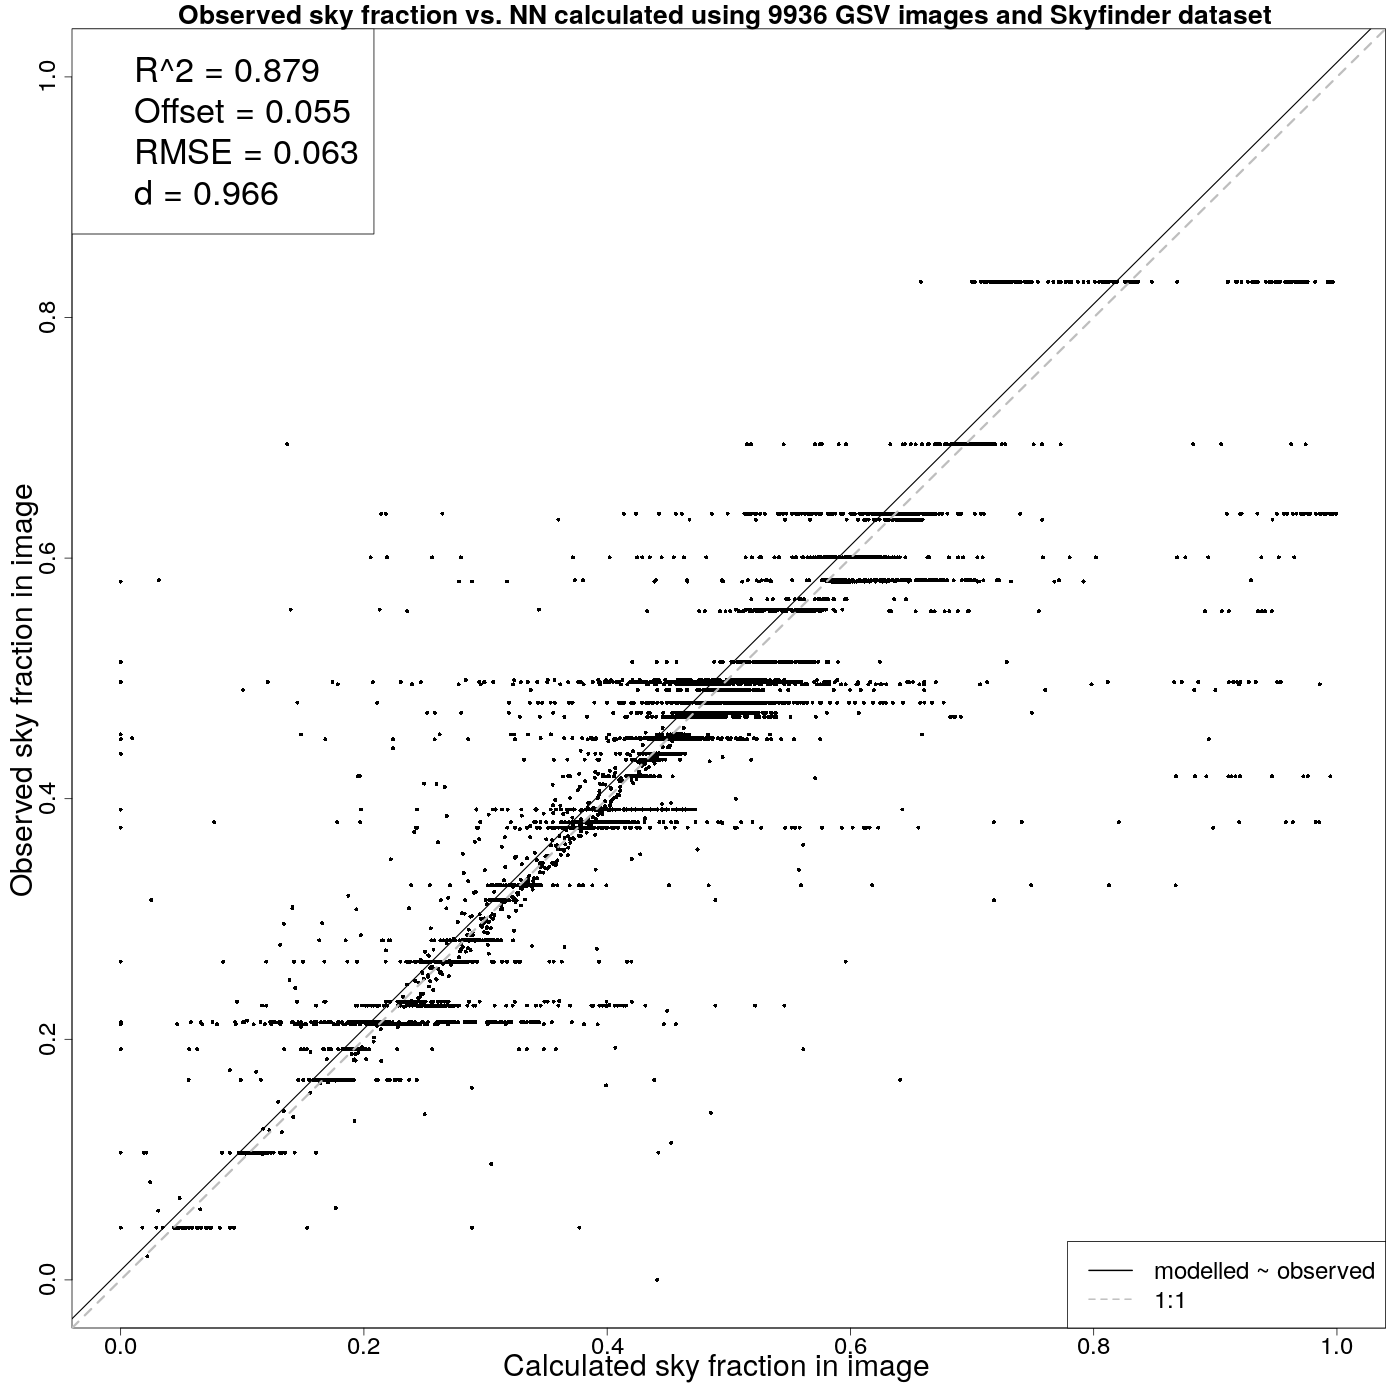
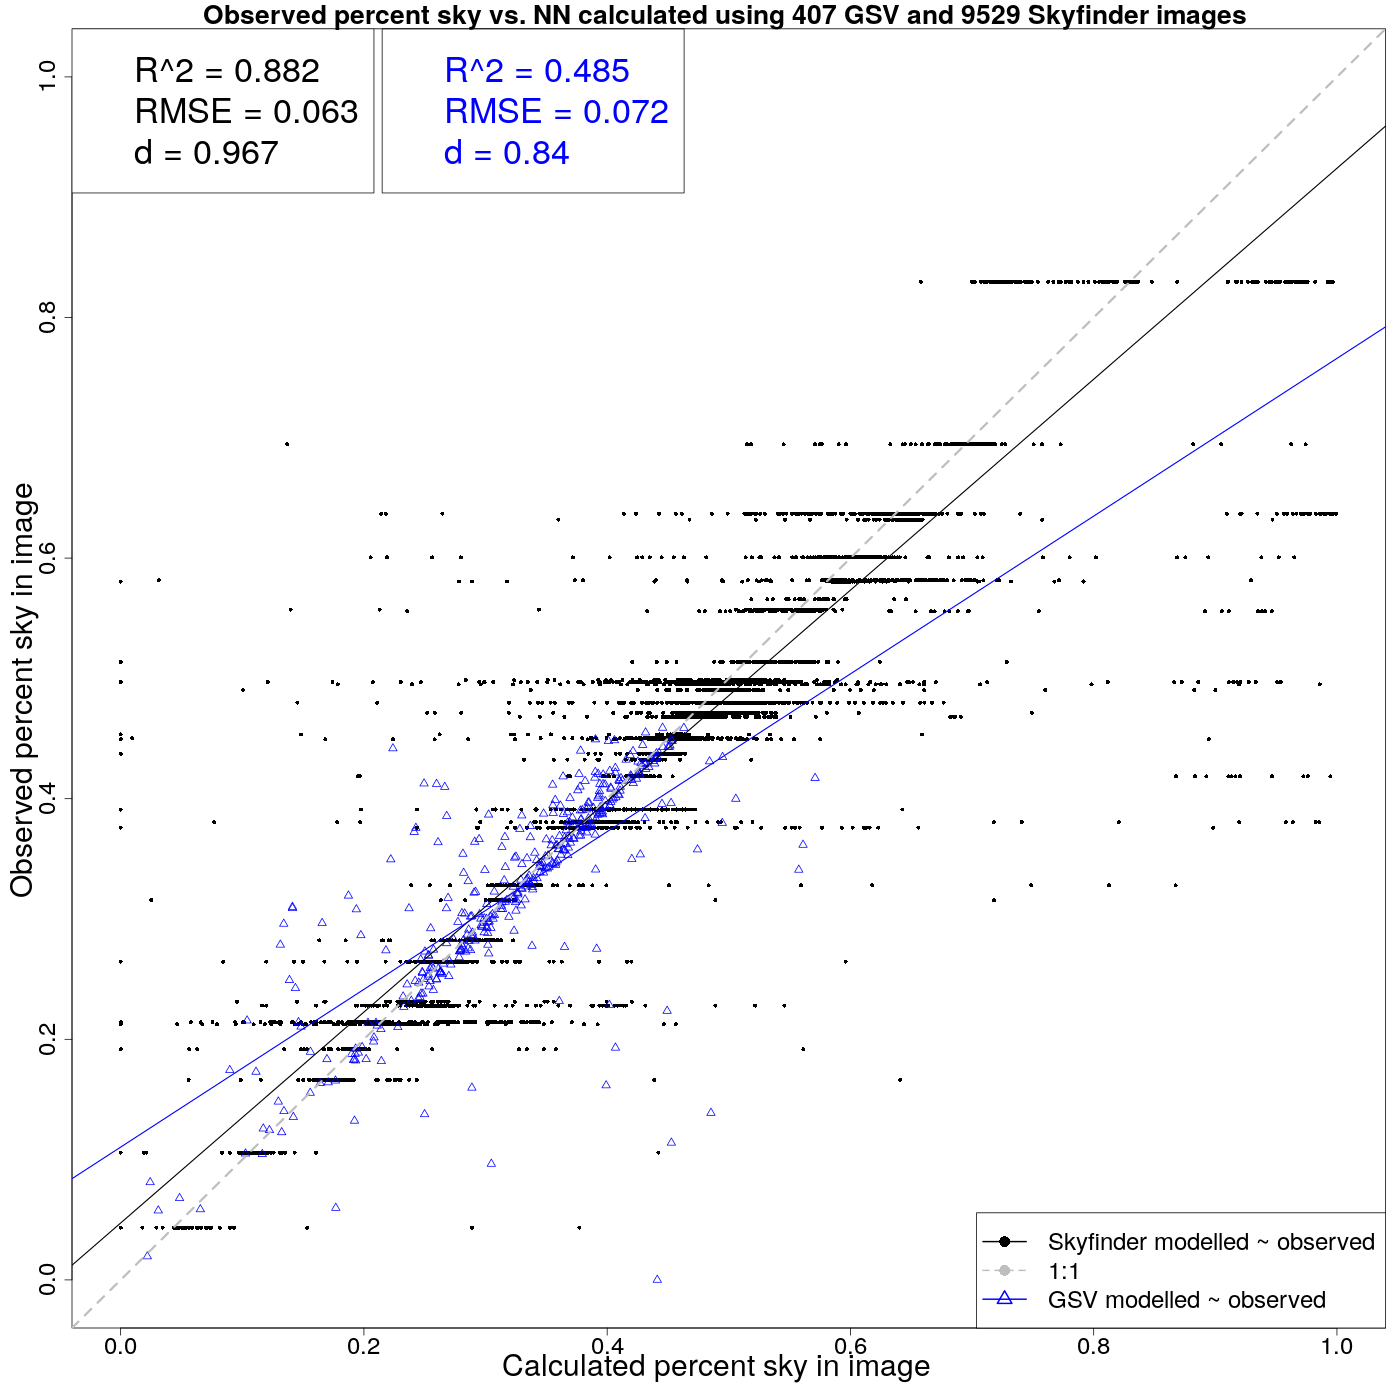
Updating some graphs

diff --git a/UrbanClimateICUC10-SVF.tex b/UrbanClimateICUC10-SVF.tex
@@ -103,7 +103,7 @@
 %% use optional labels to link authors explicitly to addresses:
 
 
-\author[melb]{Kerry~A.~Nice\corref{cor1}}
+\author[melb,monash]{Kerry~A.~Nice\corref{cor1}}
 \ead{kerry.nice@unimelb.edu.au}
 \author[melb]{Jasper S. Wijnands}
 \author[asu]{Ariane Middel}
@@ -120,7 +120,7 @@
 \address[cis]{School of Computing and Information Systems, University of Melbourne, Victoria 3010, Australia}
 \address[eng]{Melbourne School of Engineering; and Melbourne School of Population and Global Health, University of Melbourne, Victoria, Australia.}
 \address[sunshine]{Centre for Human Factors and Sociotechnical Systems, University of the Sunshine Coast, Australia.}
-%\address[monash]{School of Earth, Atmosphere and Environment, Monash University, Clayton, VIC 3800, Australia}
+\address[monash]{School of Earth, Atmosphere and Environment, Monash University, Clayton, VIC 3800, Australia}
 %\address[az1]{School of Geographical Sciences and Urban Planning, Arizona State University, Tempe, Arizona, USA}
 %\address[az2]{Urban Climate Research Center, Arizona State University, Tempe, Arizona, USA}
 %\address[crc]{Cooperative Research Centre for Water Sensitive Cities, Melbourne, Australia}
@@ -213,12 +213,12 @@ Sobel/flood-fill  & \cite{Middel2018}'s Sobel operator/flood-fill algorithm used
 Overall, 38,521 images of outdoor scenes were used. 38,115 images from the Skyfinder dataset were split into two datasets, 28,586 for neural network training and 9529 for validation. An additional 406 images were used from GSV for technique evaluations.
 
 \subsubsection{Skyfinder data}\label{sec:finderdata}
-This dataset was built from 90,000 long-term timelapse images from 53 outdoor webcams over a variety of lighting and weather conditions. Images are of a wide range of sizes and aspect ratios, including 640x489, 857x665, 960x600, 1280x720, and 1280x960. For each location, a binary sky mask was created for validation purposes. All of these images are available from the Skyfinder website \citep{Mihail2015}.
+This dataset was built from 90,000 long-term timelapse images from 53 outdoor webcams over a variety of lighting and weather conditions. Images are of a wide range of sizes and aspect ratios, including 640$\times$489, 857$\times$665, 960$\times$600, 1280$\times$720, and 1280$\times$960. For each location, a binary sky mask was created for validation purposes. All of these images are available from the Skyfinder website \citep{Mihail2015}.
 
 In this study, we selected 38,115 images from 40 locations. Night-time and images with heavy fog were removed as these are conditions unlikely to be encountered in imagery used to calculate sky view factor (i.e. Google Street View).
 
 \subsubsection{GSV data}\label{sec:gsvdata}
-Panoramas for 406 locations in a variety of cities (Adelaide, Brisbane, Paris, Sydney, Tokyo, Perth, and Melbourne) were retrieved using the Google Maps API \citep{GoogleMaps2017b}. Images were retrieved as six 640x640 tiles (one each for up, down, left, right, front, and back directions). The six images were stitched together into a 1280x960 cubic image using Java 8 \citep{Oracle2018} and OpenCV\citep {Bradski2000}. Validation images were created by hand marking sky regions in each image using the GNU Image Manipulation Program \citep{GIMP2019}. Figure \ref{fig:origmarked} shows an example of an GSV panorama image and a hand-marked validation image.
+Panoramas for 406 locations in a variety of cities (Adelaide, Brisbane, Paris, Sydney, Tokyo, Perth, and Melbourne) were retrieved using the Google Maps API \citep{GoogleMaps2017b}. Images were retrieved as six 640$\times$640 tiles (one each for up, down, left, right, front, and back directions). The six images were stitched together into a 1280$\times$960 cubic image using Java 8 \citep{Oracle2018} and OpenCV\citep {Bradski2000}. Validation images were created by hand marking sky regions in each image using the GNU Image Manipulation Program \citep{GIMP2019}. Figure \ref{fig:origmarked} shows an example of an GSV panorama image and a hand-marked validation image.
 
 \begin{figure}
 \centering    
@@ -364,7 +364,7 @@ K-mean\_14  & 14 & 0.4& 0.75& 0.3 & 0.95 & 0.65 & 0.2 \\
 
 \subsubsection{\cite{Middel2018} Sobel operator/flood-fill algorithm}\label{sec:floodfill}
 
-\cite{Middel2018} developed a process based on a Sobel filter \citep{Sobel1968} and flood-fill algorithm \citep{Laungrungthip2008,Middel2017}. This method was designed to calculate sky view factor from Google Street View panoramas that had the bottom half cropped off and converted to a fisheye projection. Note, this algorithm also rescales the imagery to 512x512. All 38,521 images in the combined training and validation dataset were processed with this algorithm (sky pixels marked with white, RGB 255,255,255), compared to validation images, and results saved for a comparison with our process flow results. These results were kept separate from the other 13 techniques and were not included in the NN training process (see Section \ref{sec:nntraining}). Also, in this benchmark comparison, we used this system to process a varied outdoor imagery dataset, not the fisheye imagery (cropped below the horizon) this algorithm was originally designed to process. Results are shown in Figure \ref{fig:sobelflood}.
+\cite{Middel2018} developed a process based on a Sobel filter \citep{Sobel1968} and flood-fill algorithm \citep{Laungrungthip2008,Middel2017}. This method was designed to calculate sky view factor from Google Street View panoramas that had the bottom half cropped off and converted to a fisheye projection. Note, this algorithm also rescales the imagery to 512$\times$512. All 38,521 images in the combined training and validation dataset were processed with this algorithm (sky pixels marked with white, RGB 255,255,255), compared to validation images, and results saved for a comparison with our process flow results. These results were kept separate from the other 13 techniques and were not included in the NN training process (see Section \ref{sec:nntraining}). Also, in this benchmark comparison, we used this system to process a varied outdoor imagery dataset, not the fisheye imagery (cropped below the horizon) this algorithm was originally designed to process. Results are shown in Figure \ref{fig:sobelflood}.
 
 
 
@@ -385,7 +385,7 @@ The Microsoft Cognitive Toolkit (CNTK) \citep{Yu2015,Agarwal2016}, with the the 
 
 \subsubsection{Neural network training}\label{sec:nntraining}    
 
-The Skyfinder dataset of 38,115 images was split into two datasets of 75\% training and 25\% validation. All training and validation images (which consisted of images of a wide variety of sizes and aspect ratios) were rescaled to 300x300. The network was calibrated using supervised learning with the generated dataset to identify one of the 13 sky detection techniques variations that performed with the highest accuracy for each image. Note, none of the GSV imagery was used in the NN training process.
+The Skyfinder dataset of 38,115 images was split into two datasets of 75\% training and 25\% validation. All training and validation images (which consisted of images of a wide variety of sizes and aspect ratios) were rescaled to 300$\times$300. The network was calibrated using supervised learning with the generated dataset to identify one of the 13 sky detection techniques variations that performed with the highest accuracy for each image. Note, none of the GSV imagery was used in the NN training process.
 
 
 
@@ -433,7 +433,7 @@ Sobel/flood-fill&0.134&0.211&0.067&0.312 \\
 \begin{figure}
 \centering
 \textbf{a)}\includegraphics[scale=0.15]{Images/ErrorPlotsCombinedIndivMean_7_6_100.png} 
-% R CMD BATCH scriptCombinedIndiv_Mean_7_6_100.R
+% R CMD BATCH /home/kerryn/git/2018-03-MasterITProject/SkyViewDetection/SkyfinderEvaluationOutput/Plots/scriptCombinedIndiv_Mean_7_6_100.R
 % cp -u ../2018-03-MasterITProject/SkyViewDetection/SkyfinderEvaluationOutput/Plots/ErrorPlotsGSVandSMean_7_6_100.png Images/ErrorPlotsCombinedIndivMean_7_6_100.png
 \textbf{b)}\includegraphics[scale=0.15]{Images/ErrorPlotsCombinedIndivMean_7_8_300.png}
 % R CMD BATCH /home/kerryn/git/2018-03-MasterITProject/SkyViewDetection/SkyfinderEvaluationOutput/Plots/scriptCombinedIndiv_Mean_7_8_300.R
@@ -453,14 +453,15 @@ Figure \ref{fig:errorplots}a presents a theoretical best case. If the NN was 100
 
 \begin{figure}
 \centering
-\textbf{a)}\includegraphics[scale=0.15]{Images/ErrorPlots1Combined.png}
-% R CMD BATCH /home/kerryn/git/2018-03-MasterITProject/SkyViewDetection/SkyfinderEvaluationOutput/Plots/TheoreticalAccuracySkyGsv.R
-% cp -u /home/kerryn/git/2018-03-MasterITProject/SkyViewDetection/SkyfinderEvaluationOutput/Plots/ErrorPlotsTheoSkyAndGsv.png /home/kerryn/git/2019-01-UrbanClimateSVF/Images/ErrorPlots1Combined.png 
-\textbf{b)}\includegraphics[scale=0.15]{Images/ErrorPlotsCNTK.png}
-% R CMD BATCH /home/kerryn/git/2018-03-MasterITProject/SkyViewDetection/SkyfinderEvaluationOutput/Plots/scriptCNTK_13classesSkyfinderOnlyEp249.R
-% cp -u /home/kerryn/git/2018-03-MasterITProject/SkyViewDetection/SkyfinderEvaluationOutput/Plots/ErrorPlotsCNTK13classesSkyfinderOnlyEp249_2.png /home/kerryn/git/2019-01-UrbanClimateSVF/Images/ErrorPlotsCNTK.png 
+\includegraphics[scale=0.15]{Images/ErrorPlots1Combined.png}
+% AnalyzeResults2ReprocessTheory.java
+% R CMD BATCH /home/kerryn/git/2018-03-MasterITProject/SkyViewDetection/SkyfinderEvaluationOutput/Plots/scriptReprocess2Theory.R
+% cp -u /home/kerryn/git/2018-03-MasterITProject/SkyViewDetection/SkyfinderEvaluationOutput/Plots/ErrorPlots2Reprocess2Theory.png /home/kerryn/git/2019-01-UrbanClimateSVF/Images/ErrorPlots1Combined.png 
+
 \caption{\textbf{
-Theoretical best case results if the NN is 100\% accurate for a) Skyfinder and GSV datasets. b) Results of NN picks against the 9636 validation images.}}
+Theoretical best case results if the NN is 100\% accurate for the 9636 validation images. 
+%b) Results of NN picks against the 9636 validation images.
+}}
 \label{fig:errorplotscntk} \label{fig:errorplots}
 \end{figure}
 
@@ -477,7 +478,7 @@ a) Mean\_7\_8\_300, b) Mean\_7\_6\_100, c) K-mean\_6, d) Sobel\_70.}}
 \label{fig:classImages}
 \end{figure}
 
-The neural network was trained for 250 epochs on a Nvidia GeForce GTX 1080 GPU, requiring about 12 hours. The neural network reached peak error rate of 46.2\% in choosing between the 13 classifications. However, as the classification results were more of a continuum, where some techniques did only slightly better than others, a strictly binary choice is not always necessary. Breaking down the accuracy with this in mind, the NN reached 52.6\% accuracy in picking the best method, 18.9\% accurate in picking the second best method, and 10.5\% in picking the third best method (for a total of the three of 82.0\%)
+The neural network was trained for 250 epochs on a Nvidia GeForce GTX 1080 GPU, requiring about 12 hours. The neural network reached peak error rate of 46.3\% in choosing between the 13 classifications. However, as the classification results were more of a continuum, where some techniques did only slightly better than others, a strictly binary choice is not always necessary. Breaking down the accuracy with this in mind, the NN reached 52.6\% accuracy in picking the best method, 18.9\% accurate in picking the second best method, and 10.5\% in picking the third best method (for a total of the three of 82.0\%)
 
 Figure \ref{fig:errorplotscntk}b shows the overall accuracy of the NN chosen pathway process flow against the 9636 validation images, with a RMSE of 0.063 and R$^{2}$ of 0.879. The accuracy of the NN has impacted the overall accuracy of the system (i.e. not reaching the theoretical accuracy of 0.026 or 0.02 RMSE), but the results are still very good. 
 
@@ -524,13 +525,19 @@ In the evaluation of the Sobel/flood-fill algorithm, results from the Skyfinder 
 
 \begin{figure}
 \centering
-\textbf{a)}\includegraphics[scale=0.15]{Images/ErrorPlots2FloodfillAll.png}
+\textbf{a)}\includegraphics[scale=0.15]{Images/ErrorPlotsCNTK.png}
+% AnalyzeCNTKResults.java
+% R CMD BATCH /home/kerryn/git/2018-03-MasterITProject/SkyViewDetection/SkyfinderEvaluationOutput/Plots/scriptCNTK_13classesSkyfinderGSVEp249.R
+% cp -u /home/kerryn/git/2018-03-MasterITProject/SkyViewDetection/SkyfinderEvaluationOutput/Plots/ErrorPlotsCNTK13classesSkyfinderGSVEp249_2.png /home/kerryn/git/2019-01-UrbanClimateSVF/Images/ErrorPlotsCNTK.png 
+\textbf{b)}\includegraphics[scale=0.15]{Images/ErrorPlots2FloodfillAll.png}
 % R CMD BATCH /home/kerryn/git/2018-03-MasterITProject/SkyViewDetection/SkyfinderEvaluationOutput/Plots/FloodfillEvalSkyfinderAndGsv.R
 % cp -u /home/kerryn/git/2018-03-MasterITProject/SkyViewDetection/SkyfinderEvaluationOutput/Plots/FloodfillEvalSkyGsv.png /home/kerryn/git/2019-01-UrbanClimateSVF/Images/ErrorPlots2FloodfillAll.png 
-\textbf{b)}\includegraphics[scale=0.15]{Images/ErrorPlots2FloodfillValidation.png}
+\textbf{c)}\includegraphics[scale=0.15]{Images/ErrorPlots2FloodfillValidation.png}
 % R CMD BATCH /home/kerryn/git/2018-03-MasterITProject/SkyViewDetection/SkyfinderEvaluationOutput/Plots/scriptFloodfillValidationFloodfillValidation.R
 % cp -u /home/kerryn/git/2018-03-MasterITProject/SkyViewDetection/SkyfinderEvaluationOutput/Plots/ErrorPlots2FloodfillValidation_2.png /home/kerryn/git/2019-01-UrbanClimateSVF/Images/ErrorPlots2FloodfillValidation.png 
-\caption{\textbf{Results of Sobel/flood-fill combination against a) combined 38,520 image dataset and b) 9636 validation images.}}
+\caption{\textbf{
+a) Results of NN picks against the 9636 validation images.
+Results of Sobel/flood-fill combination against a) combined 38,520 image dataset and b) 9636 validation images.}}
 \label{fig:errorfloodall}
 \end{figure}
 
@@ -539,14 +546,13 @@ In the evaluation of the Sobel/flood-fill algorithm, results from the Skyfinder 
 
 In comparison to published methods, the adaptive process performs well. Our accuracy of RMSE of 0.063 compares well to the RMSE of 0.205 for the \cite{Middel2018} Sobel/flood-fill algorithm and the best performing \cite{Wang2015a} Sobel variations, Sobel\_70 and Sobel\_80, which achieved an RMSE of 0.134 and 0.07.
 
-
 The results from Section \ref{sec:resultsall} show that no single technique and parameter combination performs sky pixel identification with high accuracy across the dataset used by this project. This dataset contains a wide variety of outdoor scenes with a wide range of lighting and weather conditions (as can be seen in some of the sample images in Figure \ref{fig:classImages}), challenging many of the techniques. 
 
 It was expected that all the algorithms would perform better with GSV imagery, due to their regularity. These images were captured with the same type of equipment, using the same camera angles (horizon at 50\% image height), under clear sky or partly cloudy conditions. The results show that almost all of the variations perform better with the GSV data than the Skyfinder data. Some of the variations even approach the accuracy of our system with the GSV data, for example Sobel\_80. 
 
-However, the Skyfinder dataset challenged all of the variations with the Mean and Sobel based methods achieving no better than 0.1 to 0.2 RMSE. However, for some individual images, even the poorest performing techniques excelled compared to all of the other techniques. This validates the need to have an adaptive process that can respond to the specific challenges each image presents to deliver overall better results than any single algorithm.
+However, the Skyfinder dataset challenged all of the variations with the Mean and Sobel based methods achieving no better than 0.1 to 0.2 RMSE. However, for some individual images, even the poorest performing techniques excelled compared to all of the other techniques. Also, in some cases, some techniques perform poorly for certain images. In Figure \ref{fig:errorallcombined}d, the results for the Sobel\_70 method show wide variations in $R^{2}$ between the Skyfinder and GSV datasets while the RMSE values are roughly similar. In the case of Sobel\_70, sky fractions for images with low sky fractions (a small number of images in the dataset) are systematically overestimated but this has a dramatic impact on the GSV $R^{2}$ values. Both of these cases validates the need to have an adaptive process that can respond to the specific challenges each image presents to deliver overall better results than any single algorithm, also allowing certain techniques to be not chosen in the cases that they will perform poorly.
 
-Having a range of combinations of techniques was important for the overall accuracy. Experimentation was preformed to reduce the number of classifications to to possibly increase the accuracy of the NN (reducing the number of the required classifications choices). However, in removing some of the worst performing methods (many of the K-means variations), the overall accuracy degraded. While some of the variations had very low accuracy overall, in processing some images, they were the best choice and having those available overrode the lower accuracy in the NN picking the exact best choice.
+Further, having a range of combinations of techniques was important for the overall accuracy. Experimentation was preformed to reduce the number of classifications to possibly increase the accuracy of the NN (reducing the number of the required classifications choices). However, in removing some of the worst performing methods (many of the K-means variations), the overall accuracy degraded. While some of the variations had very low accuracy overall, in processing some images, they were the best choice and having those available overrode the lower accuracy in the NN picking the exact best choice.
 
 While the theoretical accuracy from the 13 classes was a RMSE of 0.026, combinations of the best performing three or four classes saw reduced theoretical accuracy reduced to RMSEs of 0.039 (for Mean\_7\_6\_100, K-mean6, and Sobel\_70), 0.045 (for Mean\_3\_6\_100, K-mean6, and Sobel\_70), 0.036 (for Mean\_7\_6\_100, Mean\_7\_6\_100, K-mean6, and Sobel\_70), or 0.095 (for all Mean combinations). 
 

diff --git a/UrbanClimateICUC10-SVF-DataArticle.tex b/UrbanClimateICUC10-SVF-DataArticle.tex
@@ -101,9 +101,19 @@
 \cortext[cor1]{Principal corresponding author}
 
 
+
+
+
 \begin{abstract}
 
-The data presented in this article is related to the research article entitled ``Urban design using generative adversarial networks: optimising citizen health and wellbeing" \citep{wijnands2018urban}. The data consists of Google Street View imagery (4,473,991 images, 8-bit JPEG at 256$\times$256 resolution) from four headings (0, 90, 180, and 270 degrees) at 1,118,534 locations in the greater metropolitan area of Melbourne, Australia. Locations were determined using the nodes of the vector lines in the PSMA Street Network dataset \citep{PSMA2018} and data was post-processed by removing indoor images. The dataset is available on Zenodo at https://doi.org/10.5281/zenodo.1256252; please cite this paper if you use the dataset.
+The data presented in this article is related to the research article entitled ``Sky pixel detection in outdoor imagery using an adaptive algorithm and machine learning." \citep{Nice2019UC}. 
+
+The dataset consists of a trained Inception V3 neural network model as well as the configuration files to retrain the neural network. The dataset also contains two sets of outdoor imagery (from Skyfinder and Google Street View) used to train the neural network and validate the sky pixel detection system in the linked article. The original images are included as well as rescaled imagery used to train the neural network, and sky masks used for validation.
+
+
+
+
+%The data consists of Google Street View imagery (4,473,991 images, 8-bit JPEG at 256$\times$256 resolution) from four headings (0, 90, 180, and 270 degrees) at 1,118,534 locations in the greater metropolitan area of Melbourne, Australia. Locations were determined using the nodes of the vector lines in the PSMA Street Network dataset \citep{PSMA2018} and data was post-processed by removing indoor images. The dataset is available on Zenodo at https://doi.org/10.5281/zenodo.1256252; please cite this paper if you use the dataset.
 
 \end{abstract}
 
@@ -121,8 +131,8 @@ Street view, imagery, neural network, deep learning, urban analytics
 \caption{\bf Specifications Table \label{tab:spectable}}     
 \begin{tabular}{ |l | l| }
  \hline    
-Subject area & Urban analytics, urban design   \\ \hline
-More specific subject area & Machine learning  \\ \hline
+Subject area & Urban climate, urban morphology   \\ \hline
+More specific subject area & Machine learning, computer vision  \\ \hline
 Type of data & Google Street View (GSV) imagery of Melbourne, Australia  \\ \hline
 How data was acquired & Downloaded using the Google Street View API \citep{GoogleMaps2017b}  \\ \hline
 Data format & JPEG 256$\times$256 8-bit  \\ \hline
@@ -196,7 +206,7 @@ Post-processing reduced the number of locations to 1.1 million, by filtering out
 
 %\section*{References}
 \bibliographystyle{elsarticle-harv} 
-\bibliography{library}
+\bibliography{bib}
 
 %% The Appendices part is started with the command \appendix;
 %% appendix sections are then done as normal sections
